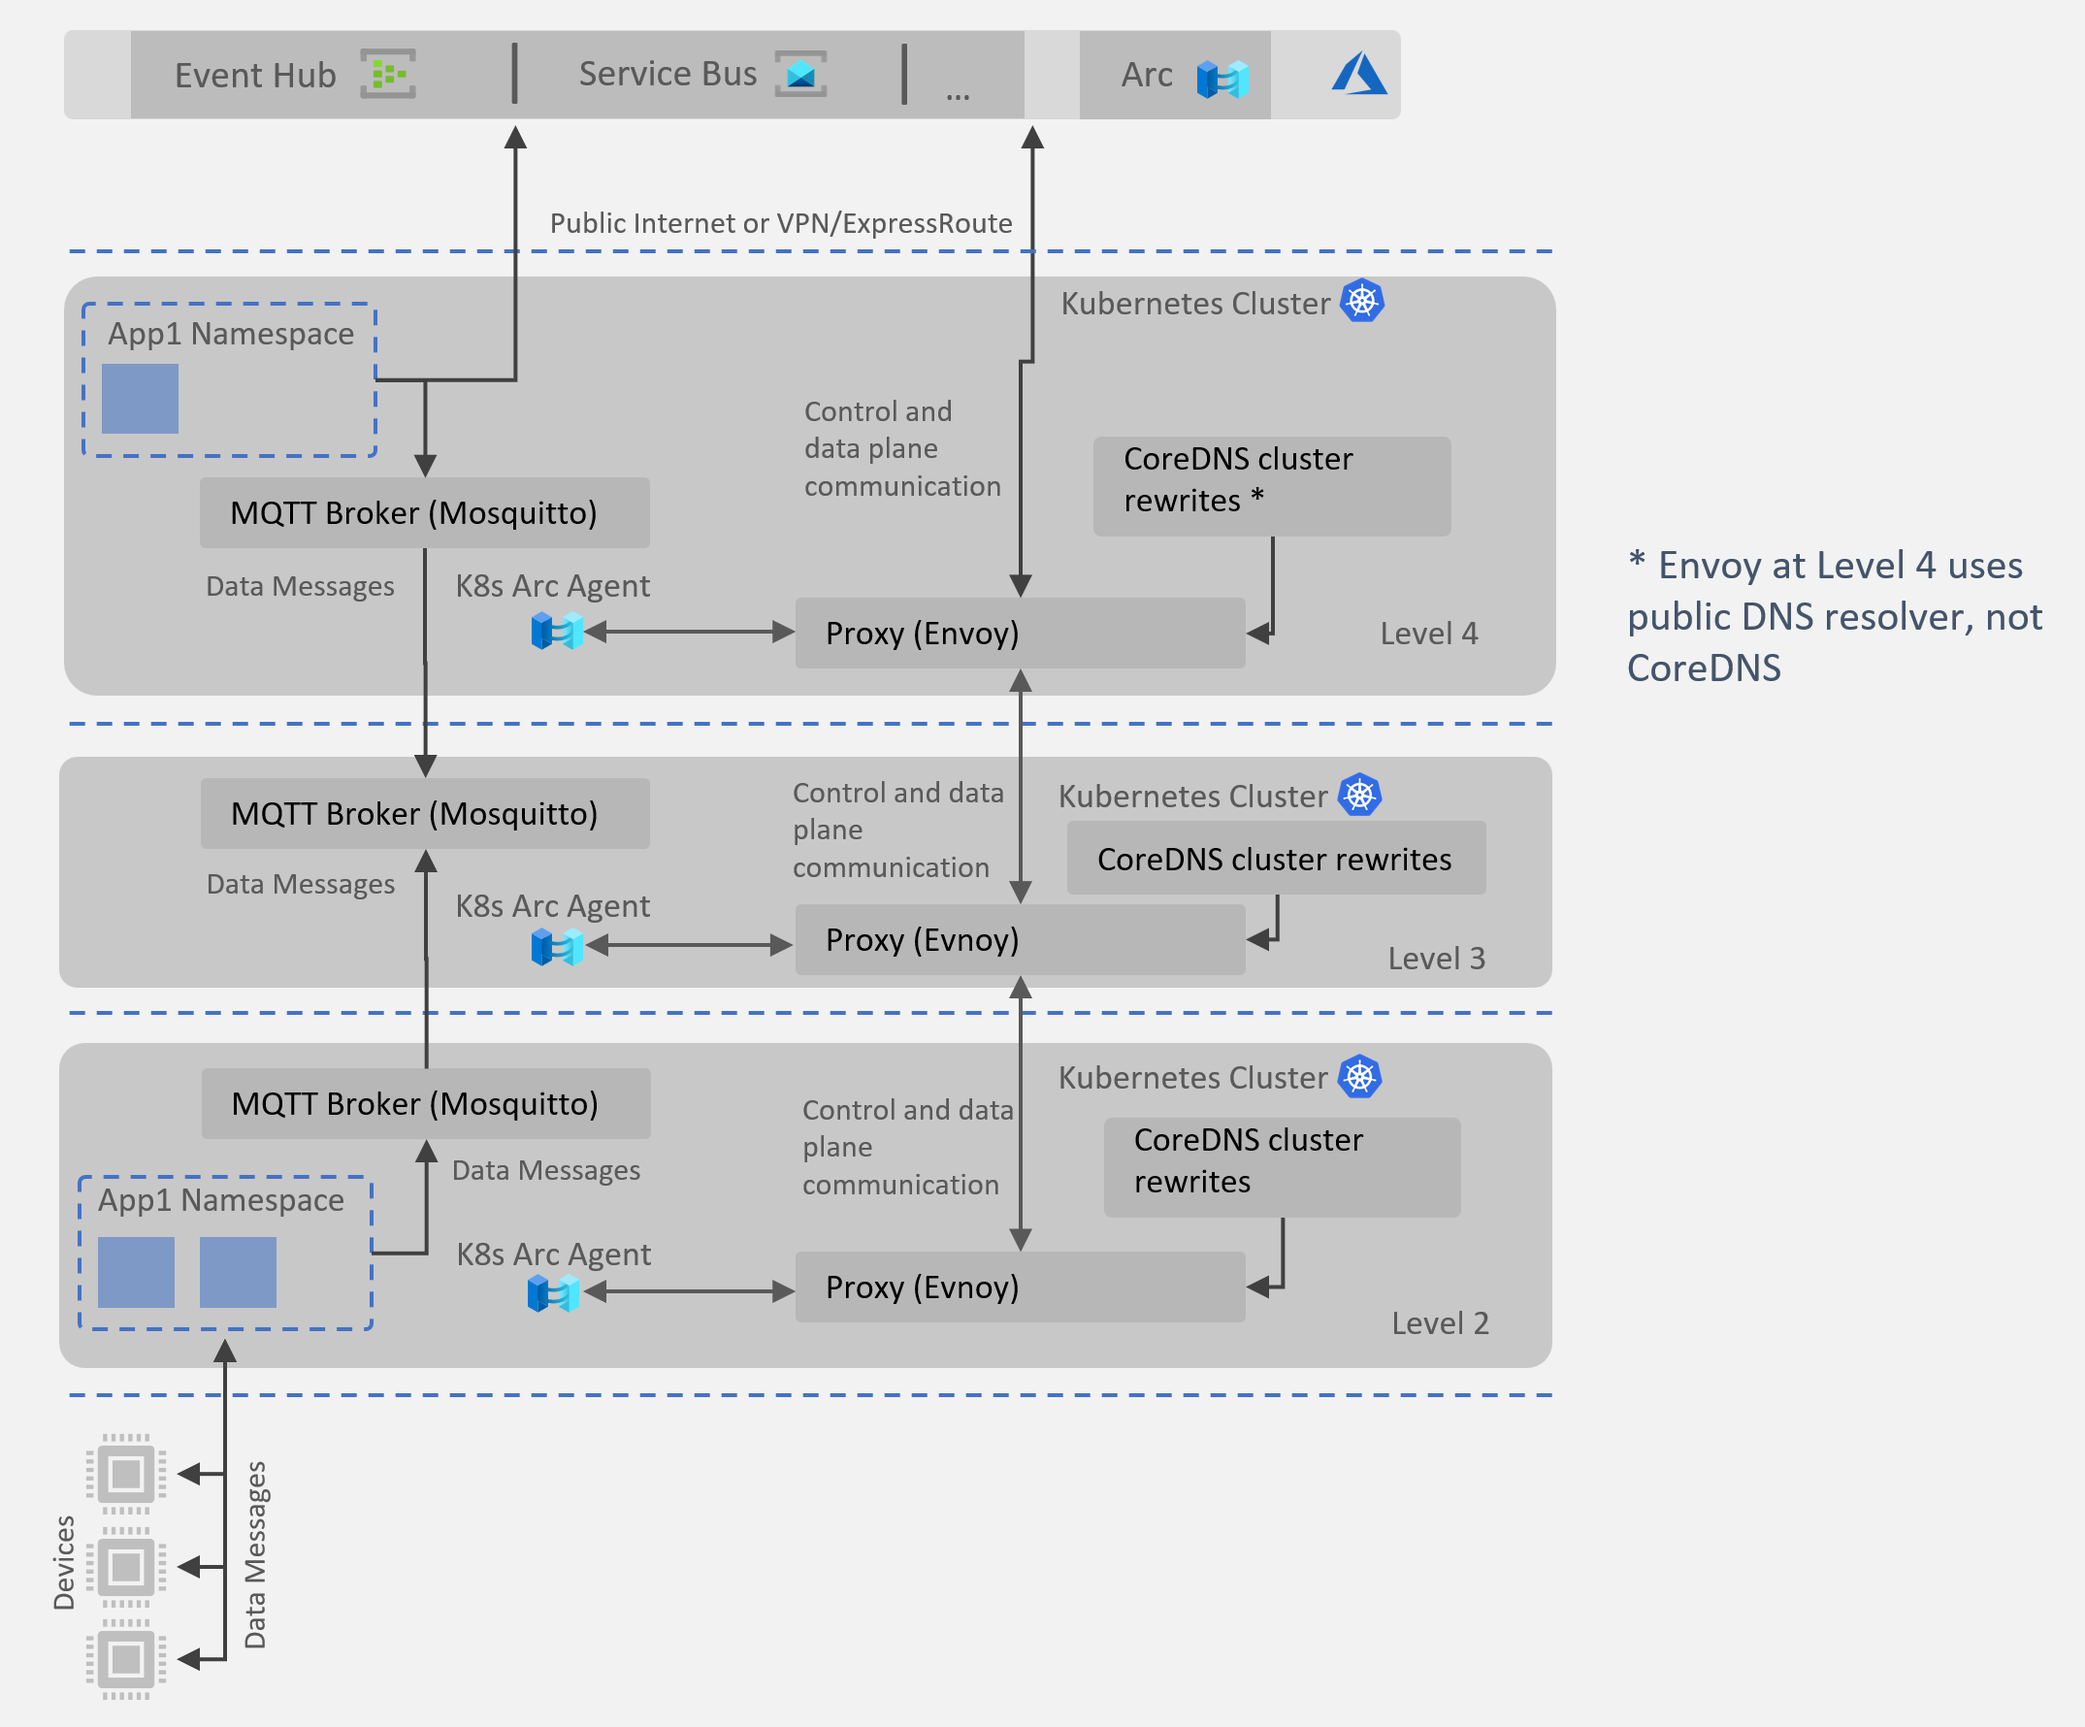
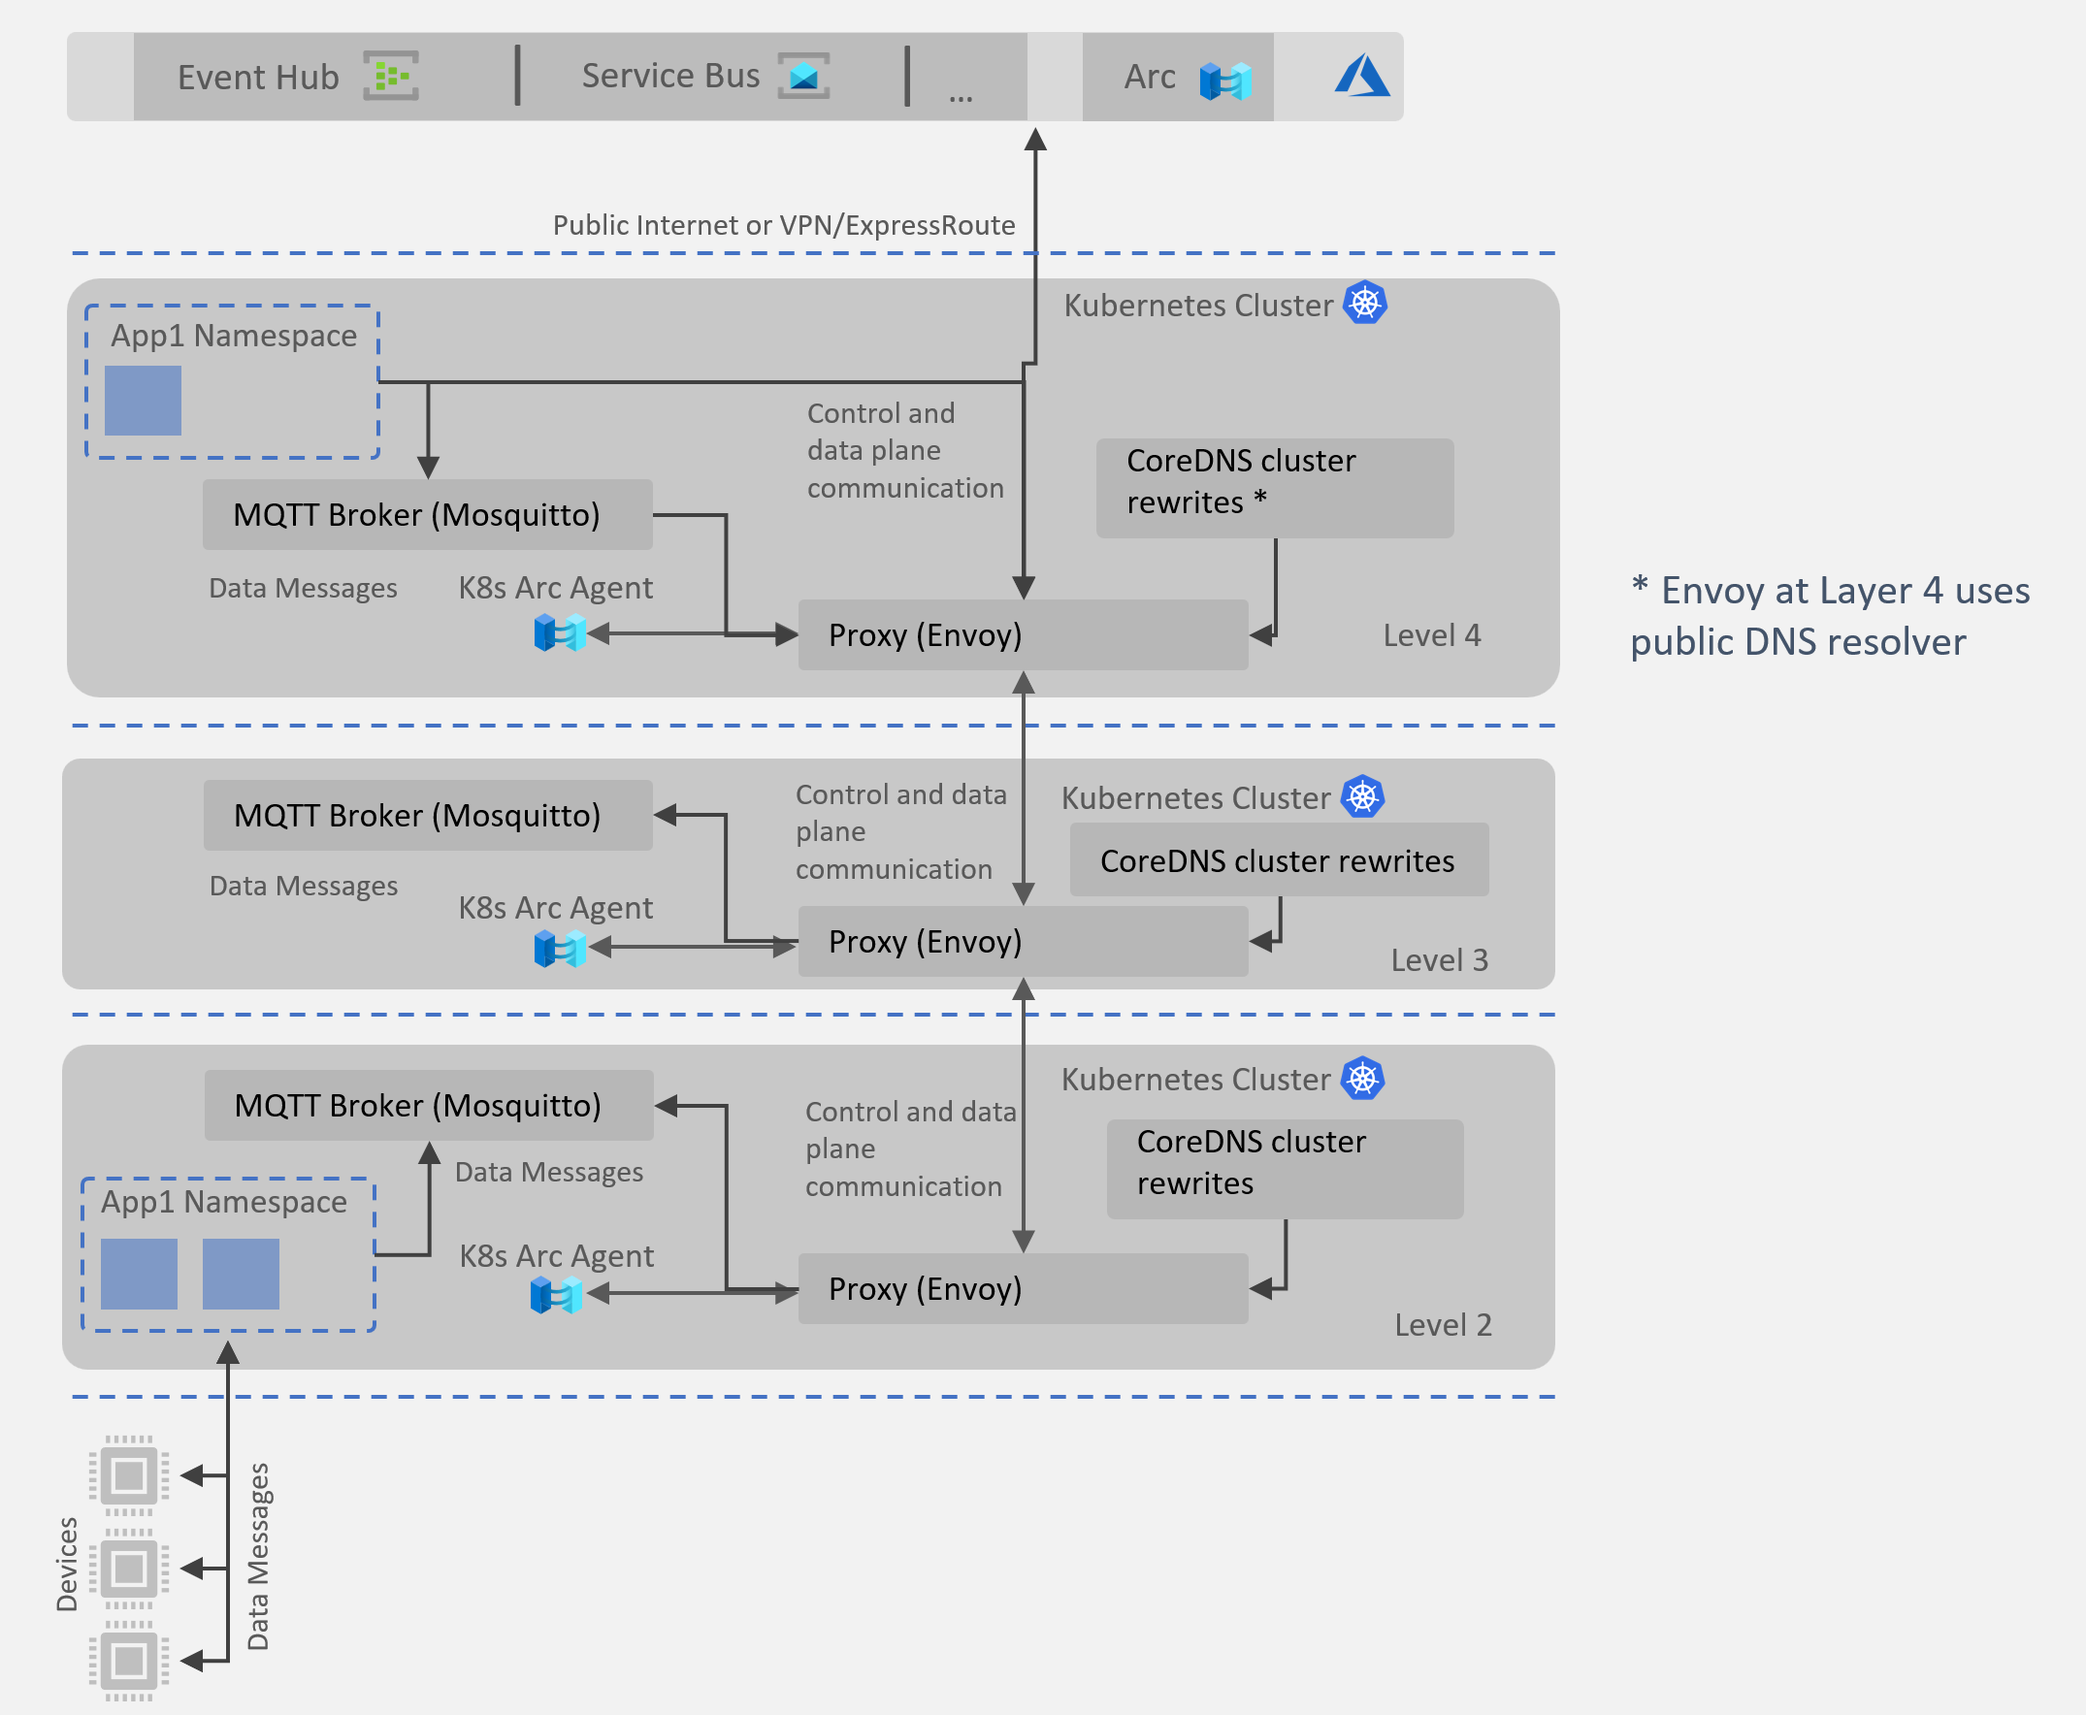
Envoy for Arc setup for L4,L3,L2 core infra sample

diff --git a/docs/reverseproxy.md b/docs/reverseproxy.md
@@ -34,7 +34,7 @@ Each service or pod in the Kubernetes cluster is automatically provided with loc
 
 For modifying some of the domain names that must pass through the Envoy proxy, the CoreDNS plugin model is employed. Customization can be done using the `hosts` and custom `forward` servers.
 
-Upon a successful installation of the Envoy proxy, a load balancer service endpoint listening on port 443 is generated. This internal endpoint is assigned to a set of domain names to be overwritten via the `hosts` plugin model for CoreDNS. In Azure AKS, this customization is possible but limited, and it can be accomplished through the ConfigMap `coredns-custom`. Please see [Customize CoreDNS with Azure Kubernetes Service](https://learn.microsoft.com/en-us/azure/aks/coredns-custom) for more information.
+Upon a successful installation of the Envoy proxy, a load balancer service endpoint listening on port 443 is generated. This internal endpoint is assigned to a set of domain names to be overwritten via the `hosts` and `rewrite` plugin model for CoreDNS. In Azure AKS, this customization is possible but limited, and it can be accomplished through the ConfigMap `coredns-custom`. Please see [Customize CoreDNS with Azure Kubernetes Service](https://learn.microsoft.com/en-us/azure/aks/coredns-custom) for more information.
 
 ## Virtual Network Configuration
 
@@ -82,18 +82,25 @@ This topic is still being debated and might change in the future.
 
 ## Envoy configuration for top level (L4) dynamic cluster resolution
 
-TODO explain here the approach with wildcard matches and forward sni proxy
-Order of filter_chain_match and importance for precedence of full URL vs * in chain order.
+Azure Arc resources require certain domain names to be allowed for egress, including wildcard domains. However, configuring Envoy for a reverse proxy setup can be challenging when the full domain name is not known upfront. Envoy proxy requires a dynamic cluster endpoint configuration to be set up for such scenarios.
+
+To address this challenge, the current sample uses the SNI Dynamic Forward Proxy solution, which is capable of resolving a number of pre-set wildcard domains. 
+
+> Note: It is important to point out that this feature is currently in an alpha stage and should not be used in production scenarios.
+
+Let's consider an example where both the full domain `gbl.his.arc.azure.com` and the wildcard domain `*.his.arc.azure.com` are required. In the case of the former, we can set up a filter match and a cluster with a full endpoint. However, for the latter, we need to configure a dynamic forward proxy to resolve the dynamic part of the URL.
+
+Envoy applies the filter match chains in the order that they are defined through the `filter_chains` collection. In this example, because the first URL is matched and its cluster destination is set statically, we can control the reverse proxy configuration when the URI is fully known.
 
 ## Design Considerations for Future Extension
 
-- Default gateway for host system (Kubernetes nodes and OS level communication)
-- Routing tables for host system
+- Default gateway for host system (AKS Kubernetes nodes and OS level communication)
+- Routing tables and UDR for AKS host system
 - Customer owned firewalls and proxies
-- Mutual TLS between proxies
+- Mutual TLS between reverse proxies
 
 ## Future Planned Additions in this Sample:
 
 - Wildcard sub-domain redirection: some of the domains required for Azure Arc K8S are documented in the form of wildcard subdomains (*.his.arc.azure.com, *.arc.azure.com, *.data.mcr.microsoft.com, *.guestnotificationservice.azure.com). Currently implemented using SNI dynamic forward proxy in Envoy.
 - Level 4 connected (local) container registry for all required container images, including a copy of public images like Envoy and Mosquitto
-- Mosquitto bridging through proxy
+- Mosquitto bridging through reverse proxy
